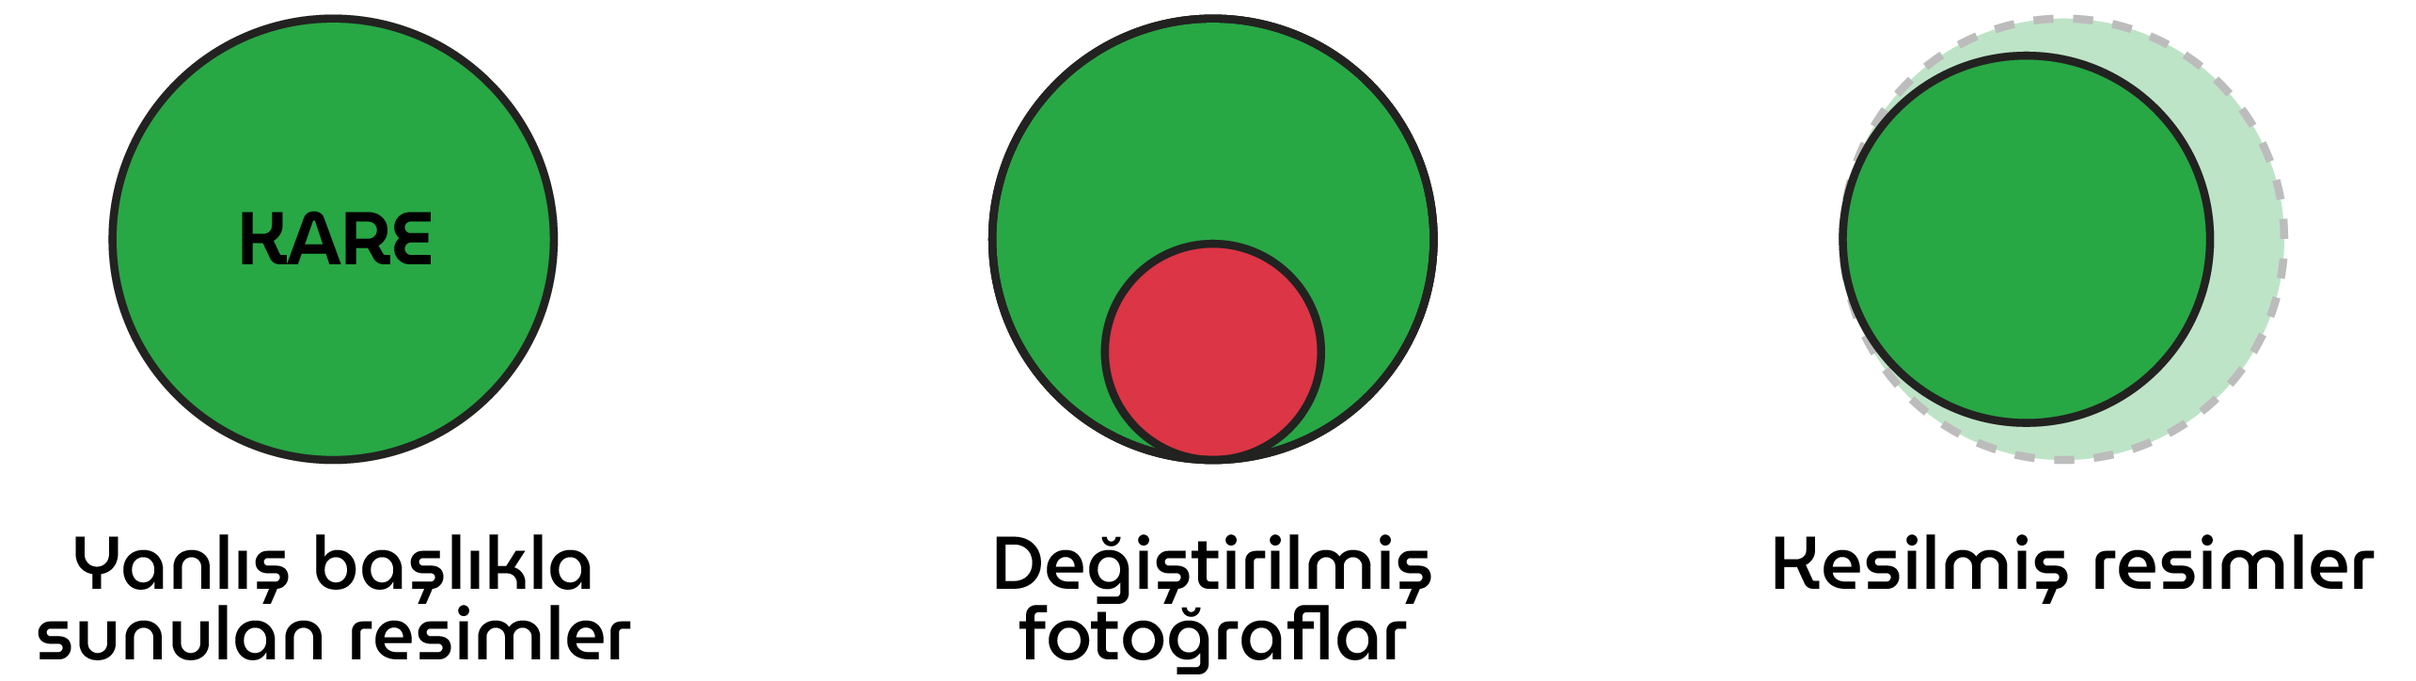
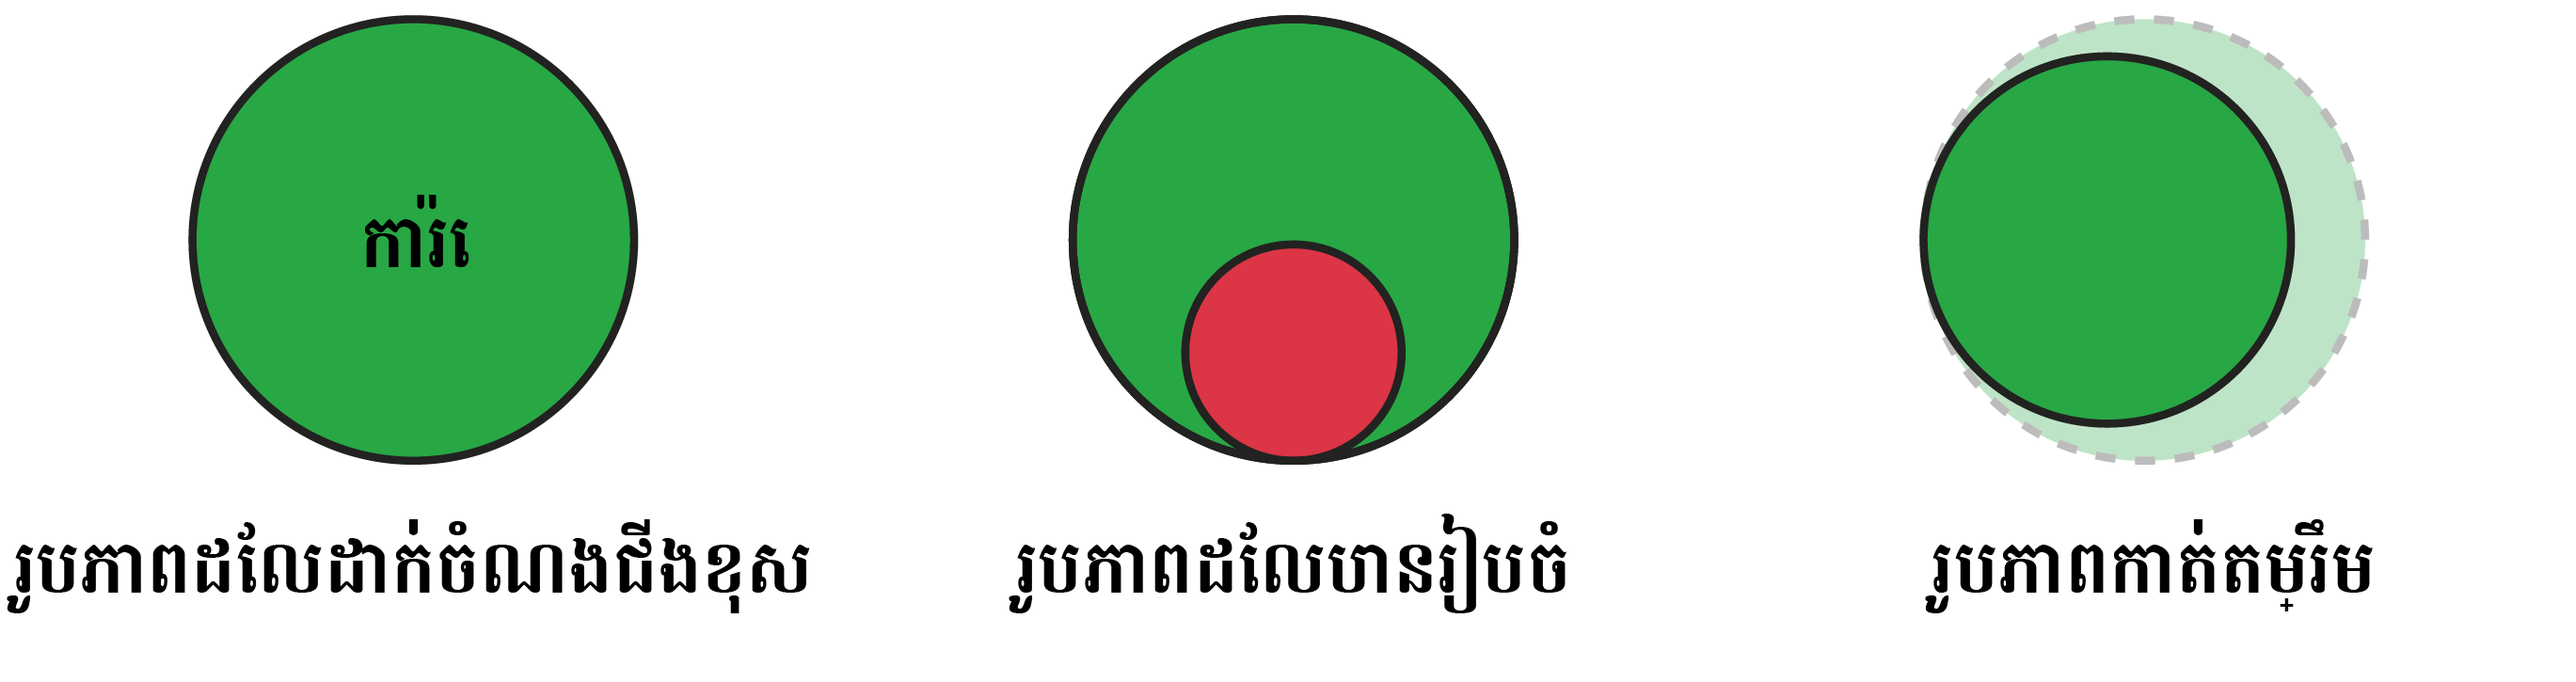
about

diff --git a/about.html b/about.html
@@ -2585,43 +2585,40 @@
         <!-- TESTI -->
 
         <div class="col-sm-8 box">
-          <div class="card-header">អំពីយើង</div>
+          <div class="card-header">អំពី៖</div>
           <div class="card-body">
-            <p class="card-text names"><span style="font-family: var(--font-bold)">projeyi hazırlayanlar</span></br></br>Gabriele Della Pepa + Andrea Elena Febres Medina + Caterina Ghio + Francesca Granzotto + Paola Rondi + Elena Stefani</br>@Density
-              Design, Final Synthesis Design Studio, Ocak 2020</p>
-            <h1 id="startingpoint" class="card-title">BAŞLANGIÇ NOKTASI</h1>
-            <h2 class="subtitle">Görsel yanlış bilgilendirme ve bilgi çarpıtma nasıl yayılıyor?</h2>
+            <p class="card-text names"><span style="font-family: var(--font-bold)">គម្រោងរបស់</span>
+            </br></br>
+            Gabriele Della Pepa + Andrea Elena Febres Medina + Caterina Ghio + Francesca Granzotto + Paola Rondi + Elena Stefani</br>@Density
+              Design, Final Synthesis Design Studio, ខែមករា 2020</p>
+            <h1 id="startingpoint" class="card-title">ចំណុចចាប់ផ្តើម</h1>
+            <h2 class="subtitle">តើព័ត៌មានខុស និងព័ត៌មានមិនពិតក្នុងទម្រង់សោទស្សន៍រីករាលដាលយ៉ាងដូចម្តេច?</h2>
             <p class="card-text">
-              21. yüzyılda çok sayıda görsel düzenleme yazılımına erişmek mümkün. Artık zaman, maliyet ve yetenek engel teşkil etmiyor, herkes ikna edici görseller üretmeyi kolayca öğrenebilir.
+              នៅសតវត្សរ៍ទី 21 មានកម្មវិធីកែរូបភាពយ៉ាងច្រើន។ ពេលវេលា ការចំណាយ និងជំនាញ លែងជាឧបសគ្គទៀតហើយ៖ អ្នកណាៗក៏អាចរៀនពីរបៀបបង្កើតរូបភាពគួរឱ្យជឿជាក់បានយ៉ាងងាយស្រួល។
               </br>
-              Dahası, günümüzde görsel imgeler bilgiyle yakın bir ilişki içinde. Gazete makalelerinde de sosyal medya iletilerinde de okuyucunun ilgisini çekmek için görsel imgeler kullanıyor.
+              អ្វីដែលលើសពីនេះទៅទៀត រូបភាពត្រូវបានភ្ជាប់យ៉ាងជិតស្និទ្ធទៅនឹងព័ត៌មាននាពេលបច្ចុប្បន្ននេះ។ អត្ថបទកាសែត និងការបង្ហោះតាមប្រព័ន្ធផ្សព្វផ្សាយសង្គមមានរូបភាពដើម្បីទាក់ទាញចំណាប់អារម្មណ៍អ្នកអាន។
               </br>
-              Bu nedenlerle, görsel yanlış bilgilendirme ve bilgi çarpıtma girişimleri çevrimiçi haber kaynakları ve sosyal ağlar üzerinde daha sık ve daha ikna edici biçimde yayılabiliyor.
-              İnsanların inançlarını istismar etmek veya kararlarını ya da eylemlerini etkilemek amacıyla manipüle edilmiş içerikleri görmek artık şaşırtıcı değil. Sosyal anlamda büyük bir zarara yol açan örneklerden biri de Trump’ın Dorian Kasırgası hakkındaki çarpıcı çıkışıydı:
+              សម្រាប់ហេតុផលទាំងនេះ ព័ត៌មានខុស និងព័ត៌មានមិនពិតអាចរីករាលដាលពាសពេញប្រភពព័ត៌មានអនឡាញ និងបណ្តាញសង្គមកាន់តែញឹកញាប់ និងគួរឱ្យជឿជាក់ជាងមុន។ វាមិនមែនជារឿងចម្លែកទេក្នុងការឃើញខ្លឹមសារដែលត្រូវបានរៀបចំដើម្បីកេងចំណេញលើជំនឿរបស់មនុស្ស ឬមានឥទ្ធិពលលើការសម្រេចចិត្ត ឬសកម្មភាពរបស់ពួកគេ។ ឧទាហរណ៍មួយដែលបណ្តាលឱ្យមានការខូចខាតដល់សង្គមយ៉ាងខ្លាំងគឺការបរិយាយផែនទីព្យុះ Dorian ដ៏ចម្រូងចម្រាសរបស់លោក Trump៖
             </p></br></br>
             <p class="cit">
-              Hafta sonu — hükümete bağlı meteoroloji uzmanlarının itirazlarına rağmen —Dorian Kasırgasının Alabama’yı vurabileceği yönündeki uyarısıyla eleştiri oklarını üzerine çeken Başkan Trump, çarşamba günü elinde üzerinde siyah bir çizgi çekildiği görülen ve kendisinin en baştan beri haklı olduğunu işaret eden bir haritayla ortaya çıktı.
-              [...] Gösterdiği haritada Ulusal Kasırga Merkezi’nin yayımlamış olduğu haritadan farklı olarak, kasırganın öngörülen potansiyel etki alanını gösteren “belirsizlik konisinin” üzerine çizilerek eklenmiş ve Alabama’yı da içerek şekilde genişleten fazladan bir yarım daire vardı. [...] Ulusal Meteoroloji Hizmetleri ve Ulusal Kasırga Merkezi gibi resmi kuruluşların yayımladığı resmi hava durumu tahminlerini gerçeğe aykırı biçimde yansıtan her türlü sahte hava tahminlerinin bilerek yayımlanması veya dağıtılması federal yasalara aykırıdır.
+              បន្ទាប់ពីមានការរិះគន់ចំពោះការព្រមានមិនត្រឹមត្រូវកាលពីចុងសប្តាហ៍ថារដ្ឋងអាឡាបាម៉ា អាចវាយប្រហារដោយព្យុះ Dorian - ទោះបីបន្ទាប់ពីអ្នកឧតុនិយមរបស់រដ្ឋាភិបាលបានជំទាស់ក៏ដោយ - លោកប្រធានាធិបតី Donald Trump កាលពីថ្ងៃពុធបានលើកផែនទីដែលមានគូសបន្ទាត់ពណ៌ខ្មៅធ្វើឱ្យវាមើលទៅហាក់បីដូចជាគាត់និយាយត្រូវ។ [... ] ផែនទីដែលគាត់បានបង្ហាញមានបន្ថែមចំណុចមួយមិនមាននៅលើផែនទីដែលត្រូវបានផ្សព្វផ្សាយដោយមជ្ឈមណ្ឌលព្យុះជាតិទេ: អ្វីដែលបានគូសជារង្វង់នោះ បានអូសបន្លាយទៅ "ជ្រុងនៃភាពមិនប្រាកដប្រជា" ដែលបង្ហាញពីការព្យាករណ៍ពីផលប៉ះពាល់របស់ព្យុះនោះ - ចូលទៅក្នុរដ្ឋងអាឡាបាម៉ា។ [... ] វាផ្ទុយពីច្បាប់សហព័ន្ធក្នុងការចេញដោយចេតនា ឬបោះពុម្ពផ្សាយការព្យាករណ៍អាកាសធាតុក្លែងក្លាយណាមួយដែលតំណាងឱ្យការព្យាករណ៍ផ្លូវការដែលចេញដោយអង្គភាពរដ្ឋាភិបាលដូចជា សេវាអាកាសធាតុជាតិ និងមជ្ឈមណ្ឌលព្យុះជាតិ។
               </br>
               <img class="img img-fluid dorian" src="./assets/dorian.jpg" /></br>
-              <span class="dida">Başkan Donald Trump, Beyaz Saray - Washington, Eylül 4, 2019. @Jonathan Ernst/Reuters.</span></br></br>
-              <a href="https://abcnews.go.com/Politics/map-flap-trump-displays-altered-weather-map-showing/story?id=65384094">Makalenin tümünü buradan okuyabilirsiniz</a>
+              <span class="dida">លោកប្រធានាធិបតី Donald Trump សេតវិមានក្នុងទីក្រុងវ៉ាស៊ីនតោន ថ្ងៃទី 4 ខែកញ្ញា ឆ្នាំ 2019។ @Jonathan Ernst/Reuters។</span></br></br>
+              <a href="https://abcnews.go.com/Politics/map-flap-trump-displays-altered-weather-map-showing/story?id=65384094">សូមអានអត្ថបទទាំងមូលនៅទីនេះ។</a>
             </p></br>
             <p class="card-text">
-              Düzenlenmiş görseller bireylerin fikirlerini ve hafızalarını etkileyebilir ve çarpıtabilir. Sahte resimleri ifşa eden düzeltmeler yapılsa bile pek çok kez sahte resimler düzeltmelerden daha fazla paylaşılır ve insanların gerçek koşulları görme fırsatı olmaz.
+              រូបភាពដែលបានរៀបចំអាចបង្វែរ និងមានឥទ្ធិពលលើគំនិត និងការចងចាំរបស់មនុស្ស។ ទោះបីជាមានការកែតម្រូវដែលបានបង្ហាញរូបភាពនោះក្លែងក្លាយក៏ដោយ ភាគច្រើន ភាពក្លែងក្លាយនេះត្រូវបានចែករំលែកយ៉ាងទូលំទូលាយជាងការកែតម្រូវ ហើយមនុស្សមិនបានឃើញបរិបទពិតនោះទេ។
             </p>
 
-            <h2 class="subtitlemiddle">Görsel aldatmaca türleri</h2>
+            <h2 class="subtitlemiddle">ស្រមោលនៃការបោកបញ្ឆោតក្នុងទម្រង់សោទស្សន៍</h2>
             <p class="card-text">
-              Görsel aldatmacaların tümü aynı maksatla hazırlanmamış olabilir, ancak hepsi aynı biçimde zararlıdır. Her ne kadar çoğu kişi temel sorunun ‘fotoşoplanmış’ görseller olduğunu düşünse de, sürekli kullanılan pek çok başka kurnazca yöntemler de var.
+              ការបោកបញ្ឆោតក្នុងទម្រង់សោទស្សន៍ប្រហែលជាមិនត្រូវបានបង្កើតឡើងក្នុងគោលបំណងដូចគ្នានោះទេ ប៉ុន្តែពួកវាទាំងអស់សុទ្ធតែមានគ្រោះថ្នាក់ដូចៗគ្នា។ ហើយខណៈពេលដែលមនុស្សជាច្រើនជឿថារូបភាពដែលប្រើដោយកម្មវិធី Photoshop គឺជាបញ្ហាចម្បងនោះ មានវិធីសាស្រ្តដ៏ឆ្លាតវៃផ្សេងទៀតដែលគេអាចប្រើបាន។
               </br></br>
-              Yanlış bilgilendirme, gerçek dışı bir bilginin farkında olmaksızın paylaşılmasını ifade eder.
-              Bilgi çarpıtma ise insanları yönlendirme amacıyla kasıtlı olarak üretilen ve paylaşılan gerçek dışı bilgiye denir.
-              ‘Sahte’ kelimesi bu iki kavramın karmaşıklığını yansıtmaz.
-              Neler olduğunu anlamak için Yanlış bilgilendirme ve bilgi çarpıtmanın üç çeşidini çözümlememiz gerekir:
+              ព័ត៌មានខុសកើតឡើងនៅពេលដែលព័ត៌មានមិនពិតត្រូវបានចែករំលែកដោយមិនដឹងខ្លួន។ ពត៌មានមិនពិត គឺជាព័ត៌មានមិនពិតដែលត្រូវបានបង្កើតឡើង និងចែករំលែកក្នុងគោលបំណងបោកញ្ឆោតមនុស្ស។ ពាក្យ 'ក្លែងក្លាយ' មិនឆ្លុះបញ្ចាំងពីភាពស្មុគស្មាញរបស់ព័ត៌មានទាំងពីរប្រភេទនេះទេ។ ដើម្បីយល់ពីអ្វីដែលកំពុងកើតឡើង យើងត្រូវបំបែកវាជាបីប្រភេទខុសគ្នា៖
               </br></br>
               <img class="img img-fluid" src="./assets/IconeManipulation.png" />
-              <span style="font-family: var(--font-bold)">Yanlış başlıkla sunulan resimler</span> — Gerçek olan ama bağlamını, kaynağını veya anlamını yanlış ifade eden açıklama metinleriyle yanlış yönlendiren resimler.</br></br>
+              <span style="font-family: var(--font-bold)">រូបភាពដែលដាក់ចំណងជើងខុស</span> — Gerçek olan ama bağlamını, kaynağını veya anlamını yanlış ifade eden açıklama metinleriyle yanlış yönlendiren resimler.</br></br>
               <span style="font-family: var(--font-bold)">Değiştirilmiş fotoğraflar</span> — Ana unsurlar doğrudur, ancak resmin anlamını değiştirmek amacıyla bazı ayrıntılar eklenmiş veya çıkarılmıştır.</br></br>
               <span style="font-family: var(--font-bold)">Kesilmiş resimler</span> — Asıl anlamını ve gerçek bağlamını değiştirmek amacıyla kesilmiş olan fotoğraflar.</p>
 
